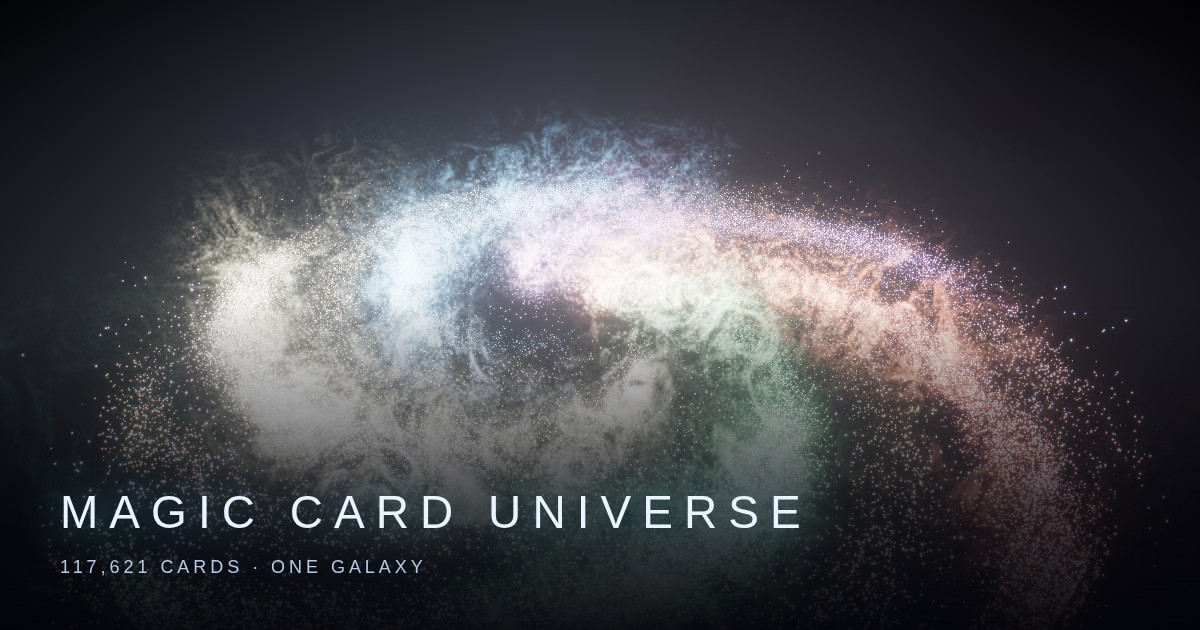
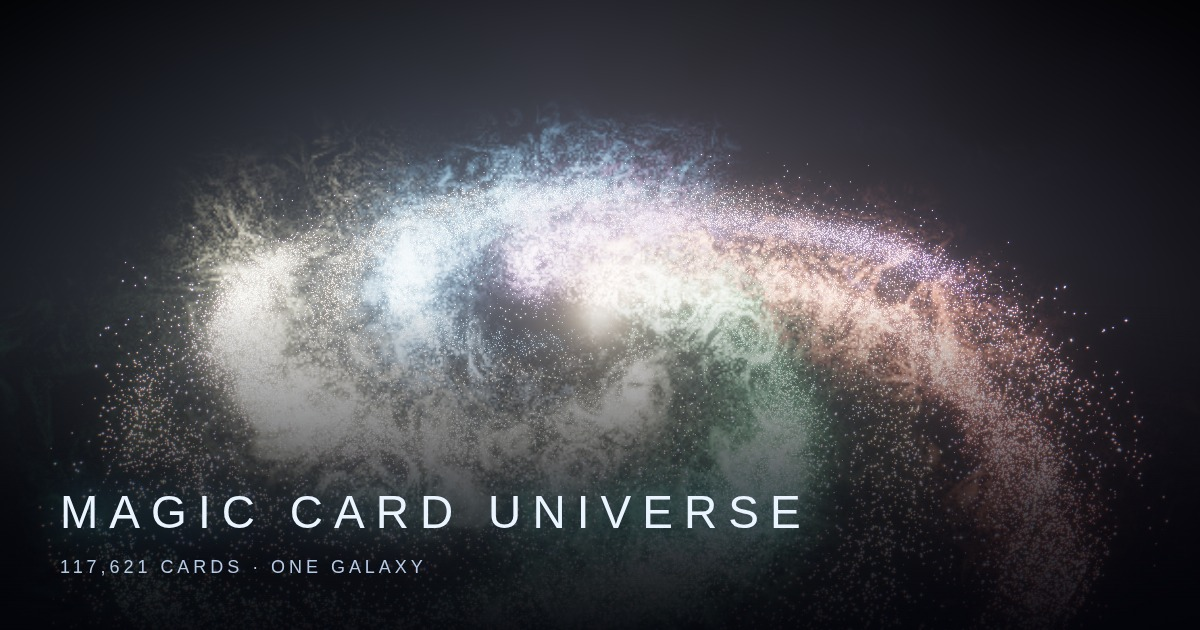
Close the phone-layout overlap, pin capture quality, refresh the social card
- The card panel covered the filters tab on a phone. At 390px an 88vw
  panel reached x=37 while the tab occupies 10..54, so the tab was
  unreachable whenever a card was open. Anchoring both edges keeps the
  two independent at every width.
- Added App.setQualityTier so the capture harness and benchmark can pin
  the ladder. A hero image should not come out soft because the
  controller dropped two tiers while the camera settled, and benchmark
  scenarios cannot be compared when each ran at a different tier.
- Regenerated public/og.jpg, which was stale by the nucleus glow, the
  nebula retune and the star-label work.

Claude-Session: https://claude.ai/code/session_01PEGNB5mzs6FFACBhSEFBXu

diff --git a/src/core/App.ts b/src/core/App.ts
@@ -68,6 +68,7 @@ export class App {
   private fpsAccum = 0;
   private filterQueued = false;
   private tier = TOP_TIER;
+  private pinnedTier = false;
   private renderScale = 1;
   private tierCooldown = 0;
   private disposers: (() => void)[] = [];
@@ -123,8 +124,24 @@ export class App {
     this.applyFilter();
   }
 
-  /** Current nebula quality tier, 0 (cheapest) to 3. Diagnostics only. */
+  /** Current quality tier, 0 (cheapest) to TOP_TIER. Diagnostics only. */
   get qualityTier(): number { return this.tier; }
+
+  /**
+   * Pin the quality ladder, or pass -1 to resume adapting.
+   *
+   * The capture harness and the benchmark both need a fixed quality to produce
+   * comparable output: a hero image should not come out soft because the
+   * controller happened to drop two tiers while the camera was settling, and a
+   * benchmark scenario cannot be compared against another that ran at a
+   * different tier.
+   */
+  setQualityTier(tier: number): void {
+    this.pinnedTier = tier >= 0;
+    if (!this.pinnedTier) return;
+    this.tier = Math.max(0, Math.min(TOP_TIER, Math.round(tier)));
+    this.applyQuality();
+  }
 
   start(): void {
     if (this.running) return;
@@ -420,6 +437,7 @@ export class App {
    * two tiers every second.
    */
   private adaptQuality(fps: number, elapsed: number): void {
+    if (this.pinnedTier) return;
     this.tierCooldown = Math.max(0, this.tierCooldown - elapsed);
     if (this.tierCooldown > 0) return;
     // A morph or a filter crossfade briefly costs extra; do not down-rank on it.

diff --git a/tools/og/compose.js b/tools/og/compose.js
@@ -7,9 +7,15 @@ document.getElementById('ui-root').style.display = 'none';
 // Commander staples.
 window.__mcu.store.patchVisual({ showLabels: false });
 
+// Pin maximum quality. Otherwise the adaptive ladder drops a tier or two while
+// the camera settles and the hero image comes out soft and desaturated.
+window.__mcu.app.setQualityTier(5);
+
 const rig = window.__mcu.app.rig;
 rig.setAngles(0.55, 1.06);
-rig.frame(470); // closer than the default fit, so the disc fills a 1.9:1 crop
+// Tuned by eye against the 1.9:1 crop. Wider than this and the disc is a small
+// smudge with dead space around it; tighter and the nucleus fills the frame.
+rig.frame(470);
 
 // Scrim. The galaxy is bright and unpredictable exactly where the wordmark
 // sits, and without this the subtitle vanishes into the green arm.

diff --git a/src/styles/cardPanel.css b/src/styles/cardPanel.css
@@ -294,9 +294,14 @@
   .mcu-card-panel {
     top: var(--mcu-mobile-panel-top);
     bottom: var(--mcu-mobile-panel-bottom);
+    /* Start clear of the filters tab on the left edge rather than covering it.
+       At 390px an 88vw panel reached x=37 while the tab occupies 10..54, so the
+       tab was unreachable whenever a card was open. Anchoring both edges keeps
+       the two controls independent at every width. */
+    left: calc(10px + var(--mcu-touch) + 14px);
     right: 10px;
-    width: 88vw;
-    max-width: 380px;
+    width: auto;
+    max-width: none;
     border-radius: 12px;
     padding: 16px;
   }
